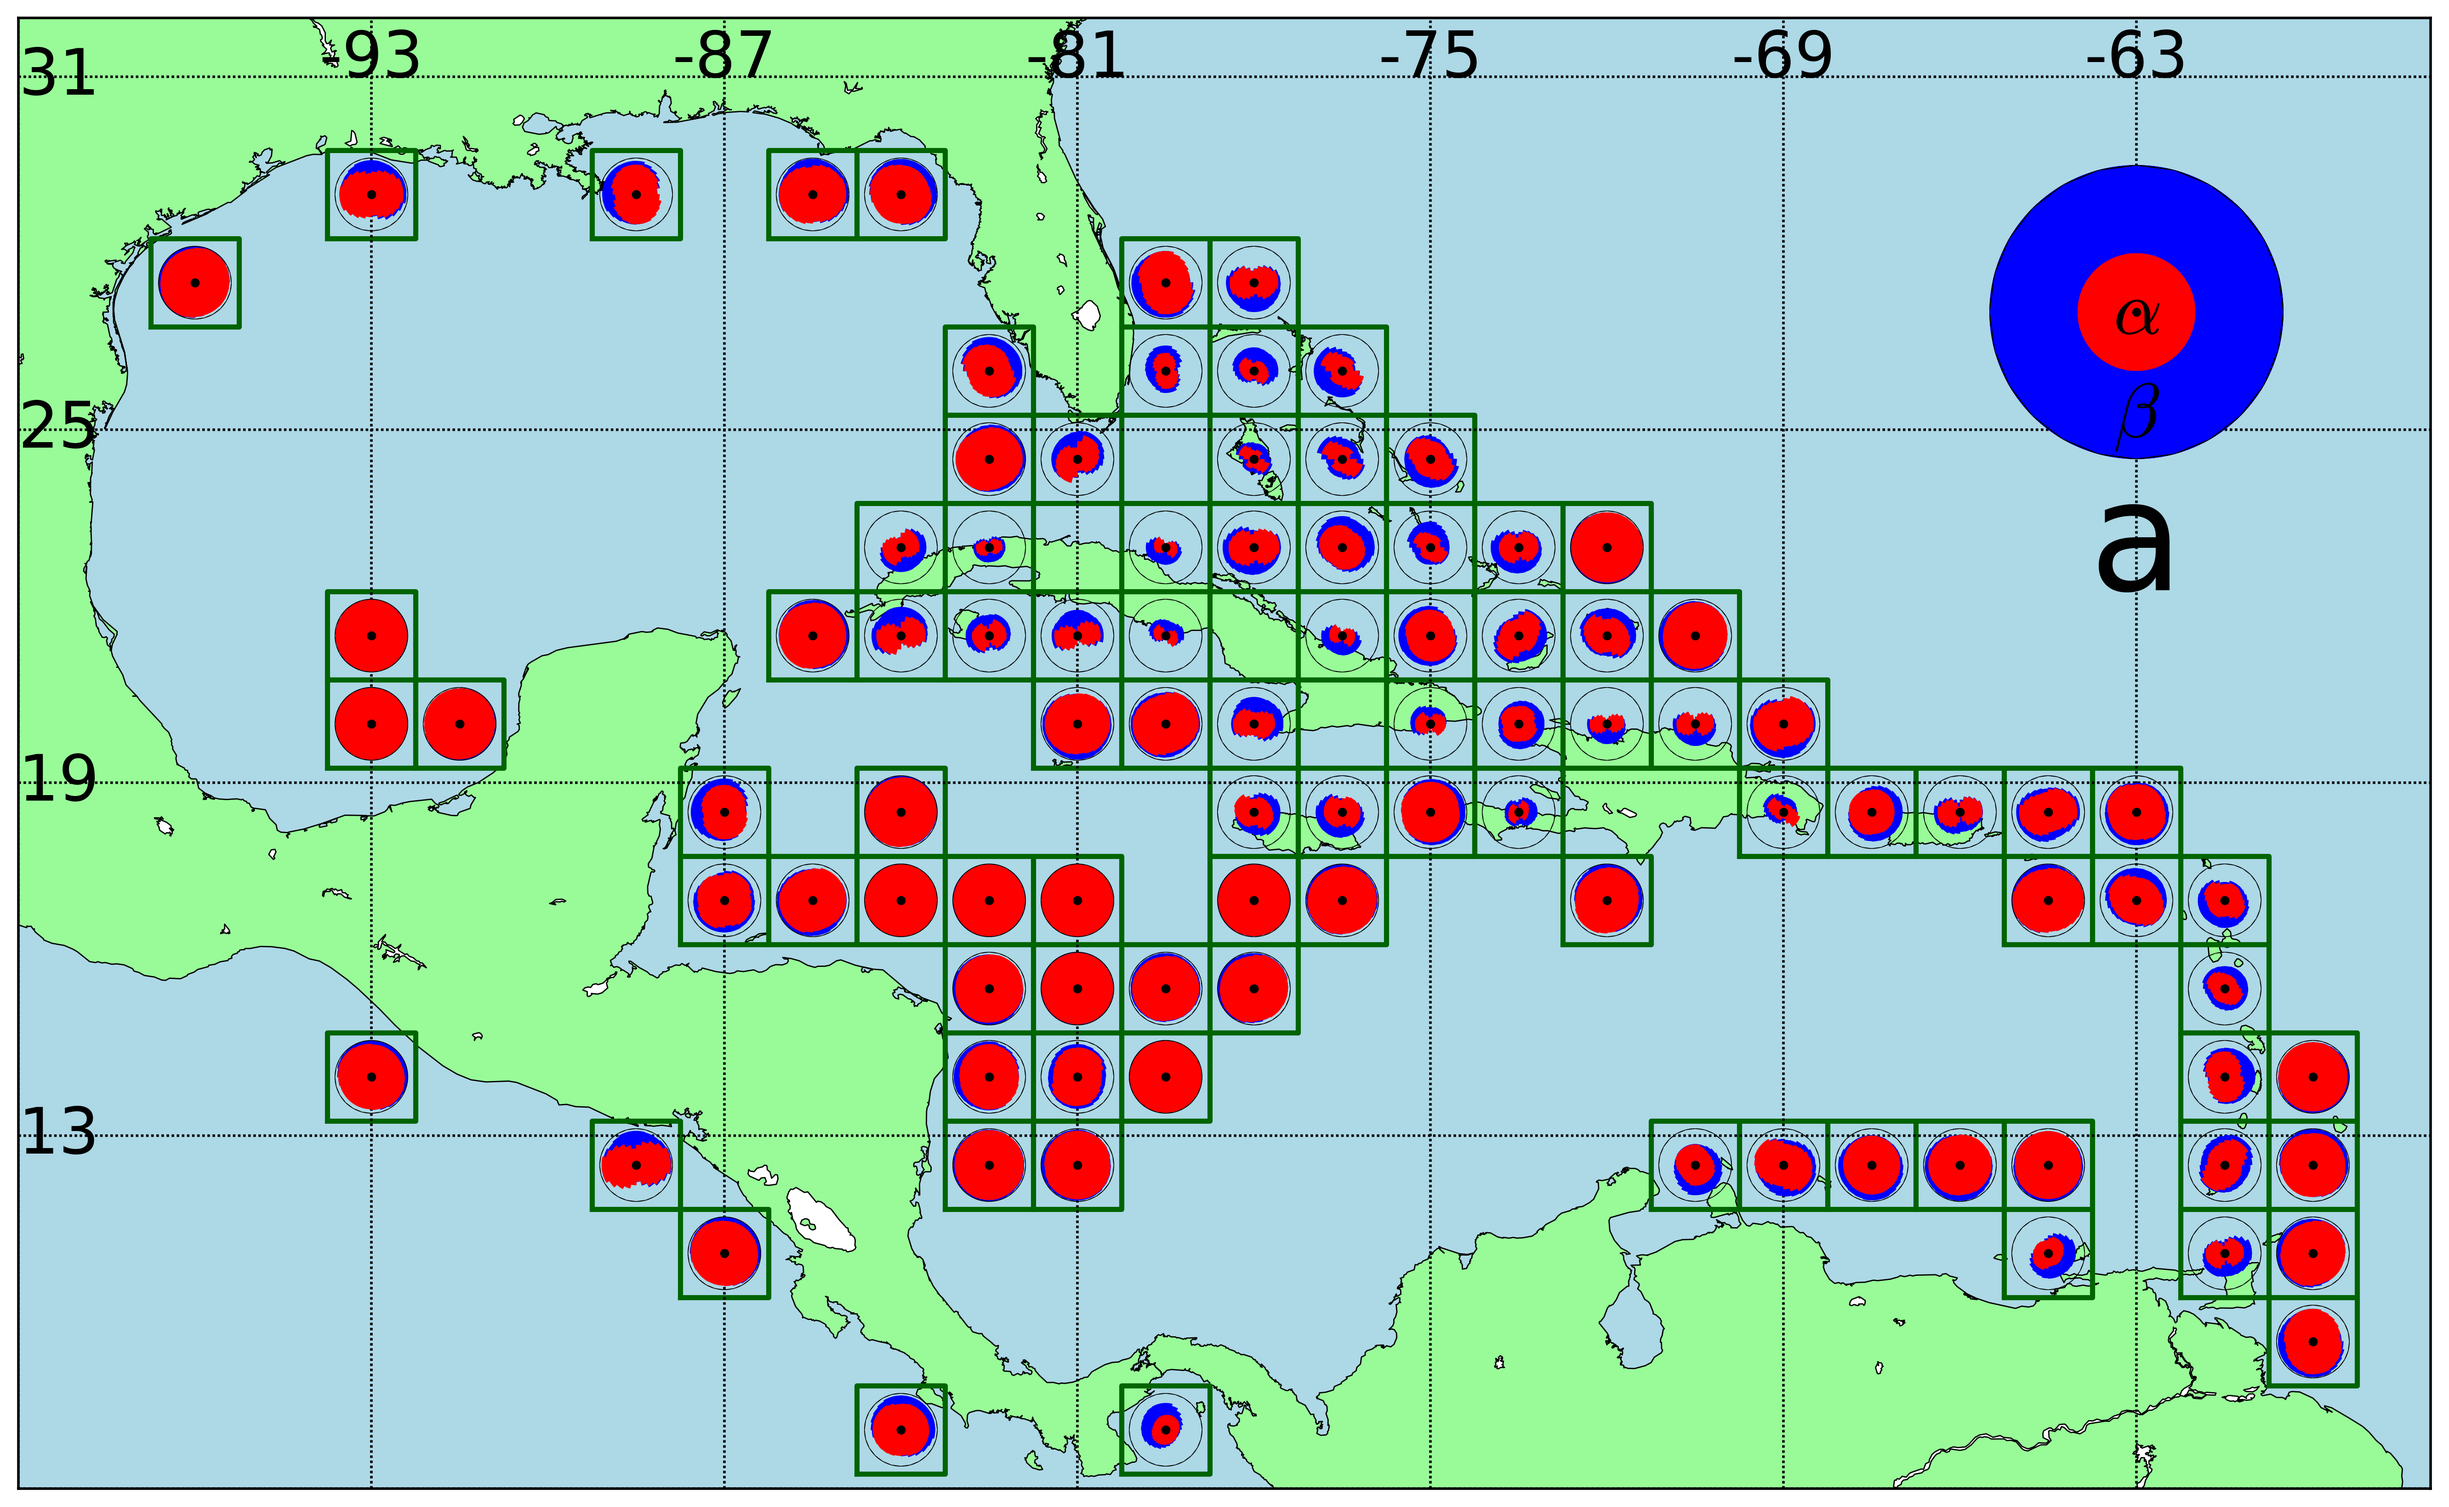
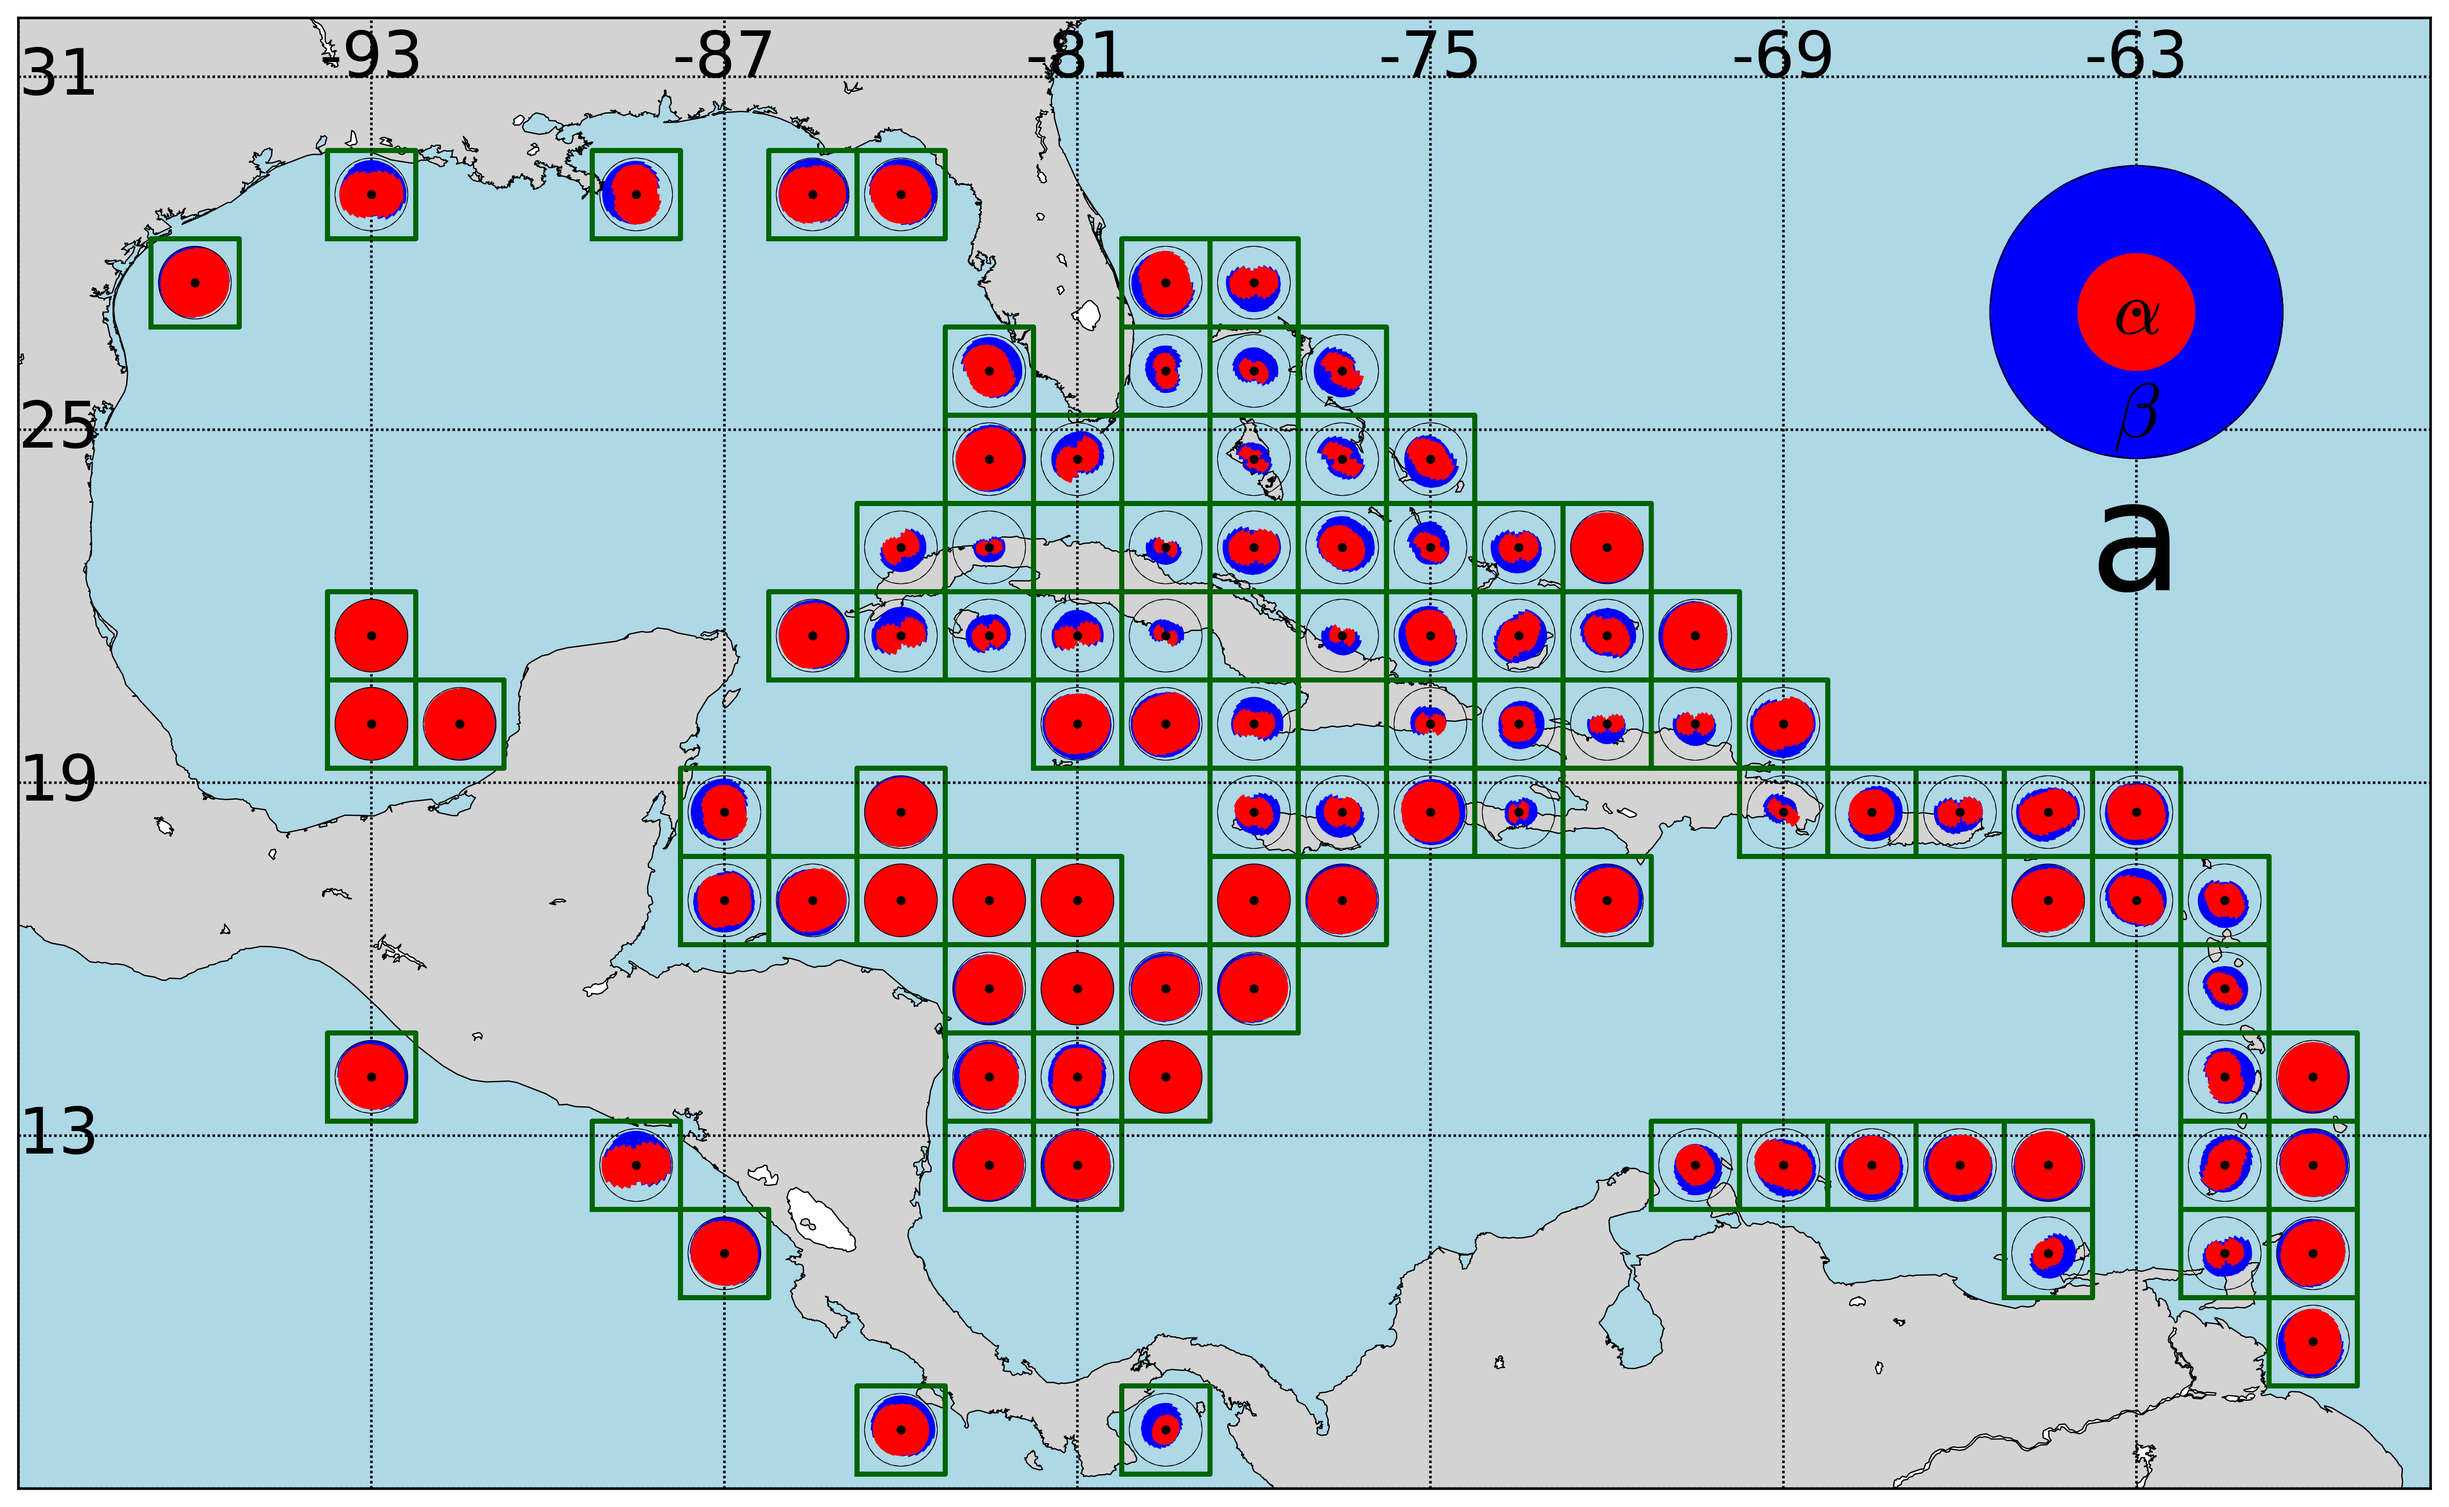
abAlphaBetaPlotter: land with color gray

diff --git a/alphaBetaLab/plot/abAlphaBetaPlotter.py b/alphaBetaLab/plot/abAlphaBetaPlotter.py
@@ -85,7 +85,8 @@ class abAlphaBetaMeshPlotter:
     self.alphaColor = 'red'
     self.cellColor = 'darkgreen'
     self.mainAxesPosition = [0, 0, 1, 1]
-    self.landColor = 'palegreen'
+   #self.landColor = 'palegreen'
+    self.landColor = 'lightgray'
     self.seaColor = 'lightblue'
     self.margin = 1 #if a cell has the centroid closer that 1 deg from the plot boundary, it is not plot
     self.nPlottedCells = None #if != None, only the first cells are plotted. Useful for debug
